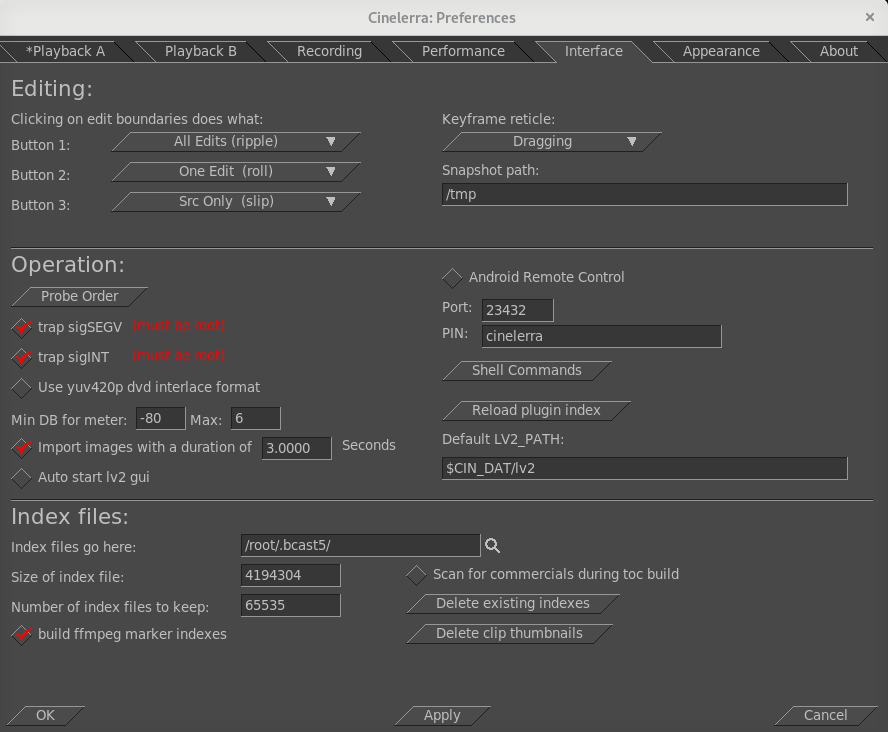
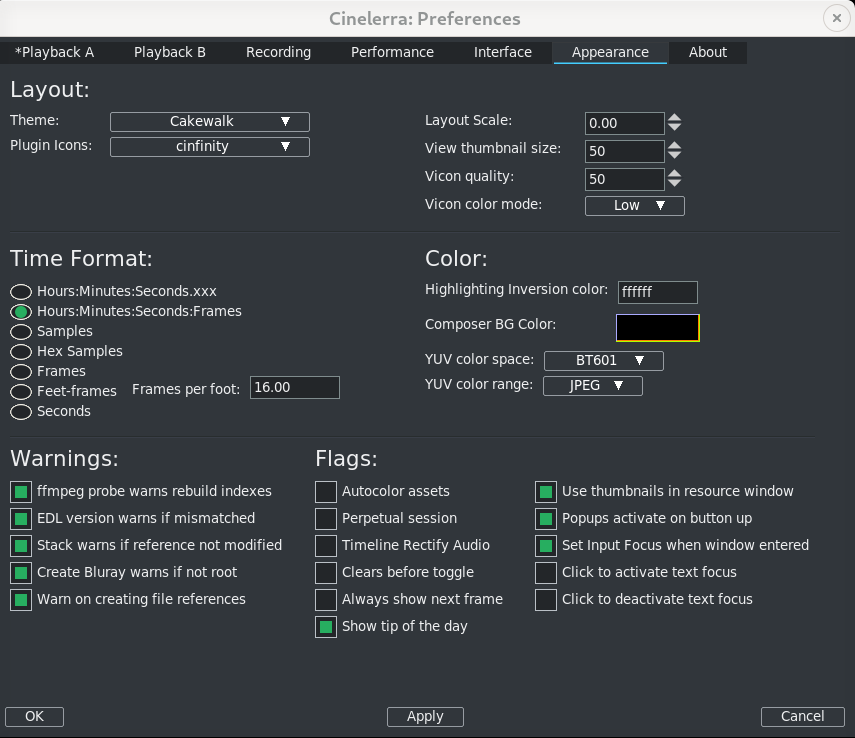
added scaling to Configuration/recreated settings.png/minor Tips tweak

diff --git a/parts/Configuration.tex b/parts/Configuration.tex
@@ -2,16 +2,16 @@
 \chapter{Configuration, Settings and Preferences}%
 \label{cha:configuration_settings_preferences}
 
-The user's default settings, preferences, and other helpful files are retained across sessions in a hidden file, called .bcast5, in the user’s \texttt{\$HOME} directory. Initially when cinelerra is launched there is an empty project and there are program default settings, and from then on the \texttt{.bcast5} directory will contain the settings that were set when quitting.  If you need to revert to the default settings, delete the \texttt{.bcast5} directory contents and restart Cinelerra.  Or you may want to rename it temporarily if you think you might want it back later.
-Although the location defaults to \texttt{\$HOME/.bcast5}, you can use the \texttt{CIN\_CONFIG} variable to override this location.  For example:  \texttt{export CIN\_CONFIG=/tmp/.bcast5}  will use a temporary setup for testing purposes.  It is also useful for multiple users sharing the same home directory who would like to have different configuration/preferences settings data.  And if you are experiencing inexplicable errors or crashes in cinelerra, they may be due to a problem with \texttt{.bcast5} in which case taking it out of the picture  can at least eliminate this as the cause.
-
-Several ways exist to change Cinelerra’s operational characteristics.  A lot of variations can be made to  settings and preferences by using the \textit{Settings} pulldown from the main window and choosing \textit{Preferences} (figure~\ref{fig:settings}).
-
 \begin{figure}[htpb]
     \centering \includegraphics[width=0.9\linewidth]{images/settings.png}
-    \caption{Settings$\rightarrow$Preferences window with Interface tab displayed}
+    \caption{Settings of default Preferences with the Appearance tab selected}
     \label{fig:settings}
 \end{figure}
+
+The user's default settings, preferences, and other helpful files are retained across sessions in a hidden file, called .bcast5, in the user’s \texttt{\$HOME} directory. Initially when Cinelerra is launched there is an empty project and there are program default settings, and from then on the \texttt{.bcast5} directory will contain the settings that were set when quitting.  If you need to revert to the default settings, delete the \texttt{.bcast5} directory contents and restart Cinelerra.  Or you may want to rename it temporarily if you think you might want it back later.
+Although the location defaults to \texttt{\$HOME/.bcast5}, you can use the \texttt{CIN\_CONFIG} variable to override this location.  For example:  \texttt{export CIN\_CONFIG=/tmp/.bcast5}  will use a temporary setup for testing purposes.  It is also useful for multiple users sharing the same home directory who would like to have different configuration/preferences settings data.  And if you are experiencing inexplicable errors or crashes in Cinelerra, they may be due to a problem with \texttt{.bcast5} in which case taking it out of the picture  can at least eliminate this as the cause.
+
+Several ways exist to change Cinelerra’s operational characteristics.  A lot of variations can be made to  settings and preferences by using the \textit{Settings} pulldown from the main window and choosing \textit{Preferences}.
 
 \section{Playback A / Playback B}%
 \label{sec:playback_a_b}
@@ -147,7 +147,7 @@ The main focus of the performance section is rendering parameters not available 
     \item[Cache size] to speed up rendering, several assets are kept open simultaneously. This determines how     many are kept open. A number too large may exhaust your memory rapidly. A number too small may result in slow playback as assets need to be reopened more frequently.
     \item[Seconds to preroll renders] some effects need a certain amount of time to settle in. Checking this option sets a number of seconds to render without writing to disk before the selected region is rendered. When using the render farm, you will sometimes need to preroll to get seamless transitions between the     jobs. Every job in a render farm is prerolled by this value. This does not affect background rendering because background rendering uses a different preroll value.
     \item[Force single processor use] Cinelerra tries to use all processors on the system by default, but sometimes you will only want to use one processor, like in a render farm client. This forces only one processor to be used.  The operating system usually uses the second processor for disk access. The value of this parameter is used in render farm clients.
-    \item[Project SMP cpus ] to restrict the number of processors utilized, change the count number.  This number will be used for the plugin per load balance operation cpu limit, which uses smp-cpus to stripe your data. It does not affect the number of cpus used in any other cinelerra operation besides plugins. On large cpu systems, it can come in handy to downgrade the number of cpus used for some plugins; otherwise it uses all of the processors and splits up the program into too many pieces which may add
+    \item[Project SMP cpus ] to restrict the number of processors utilized, change the count number.  This number will be used for the plugin per load balance operation cpu limit, which uses smp-cpus to stripe your data. It does not affect the number of cpus used in any other Cinelerra operation besides plugins. On large cpu systems, it can come in handy to downgrade the number of cpus used for some plugins; otherwise it uses all of the processors and splits up the program into too many pieces which may add
     considerable overhead in high cpu count systems.
 \end{description}
 
@@ -185,7 +185,7 @@ In the Render Farm Section are many options that are explained in detail in the 
 
 \begin{description}
     \item[Probe Order] clicking on this box brings up a popup allowing you to change the probe order usually for media that is raw camera output but it is also helpful if you want to ensure that a specific driver is used for certain media; for example you may want \texttt{tiff} files to be read natively instead of by ffmpeg.
-    \item[trap sigSEGV] always enable this so that if cinelerra crashes, a dump will be generated for analysis.
+    \item[trap sigSEGV] always enable this so that if Cinelerra crashes, a dump will be generated for analysis.
     \item[trap sigINT] always enable this so that you can use \texttt{Ctrl-c} to interrupt the program if it appears to be hanging.  This will often generate some useful information for analysis.
     \item[Use yuv420p dvd interlace format] for DVD media this option maintains the interlacing in Chroma sample addressing, which ordinarily would be deleted because the upsampling of interlaced chroma fields is normally done using a progressive algorithm.  With this mode enabled, the MPEG decoder uses a different algorithm for interlaced frames so that the $4:2:0$ format chroma interlacing is preserved.
     \item[Min / Max DB for meter] \textit{Min DB} is useful because some sound sources have a lower noise threshold than others. Everything below the noise threshold is meaningless. This option sets the meters to clip below a certain level.  \textit{Max DB} sets the maximum sound level represented by the sound meters. This value is presented merely to show how far over the limit a sound wave is. No matter what this value is, no sound card can play sound over 0 dB.
@@ -193,9 +193,10 @@ In the Render Farm Section are many options that are explained in detail in the 
     \item[Auto start lv2 gui] some lv2 plugins display a \textit{glitzy} UI (User Interface); for example the Calf plugins.  For these LV2 plugins, if you want that to automatically come up without having to click on the UI button on the simplified ui interface, this is the flag to enable that.
     \item[Android Remote Control] check this to enable using an android device as a remote control for broradcast TV.
     \item[Port] default port 23432 is used for the android remote control.
-    \item[Pin] default PIN cinelerra is used for the android remote control.
+    \item[Pin] default PIN Cinelerra is used for the android remote control.
     \item[Shell Commands] this button brings up the controls for setting up your own shell commands or editing previously set up commands.  See the section on Menu Bar Shell Commands for information.
     \item[Reload plugin index] execute this reload command when you have modified plugins and want to make sure your changes take effect.
+    \item[Nested Proxy Path] designates the default directory path for Nested Proxy files.
     \item[Default LV2\_Path] when there is no system \texttt{LV2\_PATH} set, if you want lv2 plugins loaded, you must set the correct directory path name here. When you change this field, cin will automatically restart and load the newly specified lv2 plugins.
 \end{description}
 
@@ -250,10 +251,32 @@ To change a \textit{Theme} in the main window pulldown, select:
 
 \texttt{Settings $\rightarrow$ Preferences};
 
-then in Preferences window, click on the \texttt{Appearance} tab. In the Editing section in the lower left hand corner,	click on the \texttt{down arrow} next to Theme to see your choices. Click on your desired choice from the list given. Check \texttt{OK}, cinelerra will automatically shutdown and restart.
+then in Preferences window, click on the \texttt{Appearance} tab. In the Editing section in the lower left hand corner,	click on the \texttt{down arrow} next to Theme to see your choices. Click on your desired choice from the list given. Check \texttt{OK}, Cinelerra will automatically shutdown and restart.
 
 \begin{description}
     \item[Plugin Icons] here are currently 4 choices for different plugin icons to include the old original.
+    \item[Layout Scale] allows for setting up scaling 
+for your 4K monitors or any monitor where you would like the text and icons to be just a little bigger or a lot bigger. This scale setting is automatically saved across sessions. 
+When first using Cinelerra, or if \textit{Layout Scale} has never been set, the initial value is 0.0.
+This means an automatic probe of the biggest monitor in use will be used for the setting. The advantage of this is that "new users" with a 4K monitor will not immediately be discouraged with too small text/icons.
+Leaving it at 0 instead of 1 is what most people will do and is probably preferable so that if you move to a different monitor with different dimensions/resolution, it will automatically probe. 
+If a user wants to prevent the automatic scaling, \textit{Layout Scale} should be set to 1.0 to avoid the smaller characters that might result due to the probe of a non-1080p monitor.
+
+For testing or when you are using a different sized monitor and want to ensure the expected
+size for larger text/fonts before you start the application from a window, you can keyin:
+\begin{lstlisting}[language=bash,numbers=none]
+        BC_SCALE=2.0 {your Cinelerra path}/bin/cin
+\end{lstlisting}
+The scaling size would only be in effect for that run of Cinelerra.  This is particularly
+useful in the case where the user makes a mistake in setting the \textit{Layout Scale} and Cinelerra becomes unusable. 
+Then the environment variable, BC\_SCALE, can be used to overcome the bad setting so that you can get back into
+Cinelerra and fix the scaling parameter.  For example, if you 
+accidentally set \textit{Layout Scale} to 112.6, keyin the following 
+and then when you get back into Cinelerra, fix \textit{Layout Scale} value in Preferences.  
+\begin{lstlisting}[language=bash,numbers=none]
+        BC_SCALE=1.0 {your Cinelerra path}/bin/cin
+\end{lstlisting}
+
     \item[View thumbnail size] you can increase or decrease the thumbnail size -- larger size uses more cpu.
     \item[Vicon quality]  increase the quality used for thumbnails to get more clarity of pixels -- this will use
     more memory.
@@ -289,7 +312,7 @@ Various representations of time are given so that you can select the most conven
 This section contains many useful options to cater to the various preferences of individual users.
 
 \begin{description}
-    \item[Show tip of the day] if checked, a tip will be displayed in a popup box when start up cinelerra.
+    \item[Show tip of the day] if checked, a tip will be displayed in a popup box when start up Cinelerra.
     \item[Autocolor assets] to make it visually easier to see your clips on the timeline that are from the same media file, you can have them automatically colored. Use of this feature requires additional memory and cpu on every timeline redraw, therefore smaller computers may not want this checked on.
     \item[ffmpeg probe warns rebuild indexes] this warning is very important for switching from using ffmpeg to using native formats, such as in the case of MPEG, so that you are reminded to \textit{rebuild indexes}.  If you do not rebuild the indexes, seeking on the timeline back and forth could very well be problematic, meaning it might not go to the right place.  Notification about rebuilding the indexes will appear by default as shown in the figure~\ref{fig:ff_probe} when you click on the FF icon in the main timeline in the upper right hand corner.  Once you click on \texttt{Don’t show this warning again} you will no longer be warned and this flag will no longer be enabled.
     \begin{figure}[htpb]
@@ -300,7 +323,7 @@ This section contains many useful options to cater to the various preferences of
     \item[EDL version warns if mismatched] in the case of a Batch Render, it is often helpful to be warned if the EDL has been changed so that you are aware that what is going to be rendered is different than your current EDL session.
     \item[Create Bluray warns if not root] if checked and you are not logged in as root, you will get an error message in order to avoid doing a lot of work and then failing out because root is required for automount and to write on DVD hardware.
     \item[Popups activate on button up] this is the default but if unchecked, popups activate on button down.
-    \item[Set Input Focus when window entered] this is checked on by default because on some operating system distros, when you move your mouse to a different window, nothing happens and you are left wondering why you can not enter information.  When checked this causes the input focus to shift to any cinelerra window when the cursor enters an exposed region of the window which eliminates the need to switch input focus by tabbing. 
+    \item[Set Input Focus when window entered] this is checked on by default because on some operating system distros, when you move your mouse to a different window, nothing happens and you are left wondering why you can not enter information.  When checked this causes the input focus to shift to any Cinelerra window when the cursor enters an exposed region of the window which eliminates the need to switch input focus by tabbing. 
     \item[Click to activate text focus] Click to activate text focus
     \item [Click to deactivate text focus] if checked, you will have to click to deactivate text focus.
     \item[Always show next frame] in this mode the insertion pointer reflects the same as the Compositor so that for playing forward, the result is what looks like 1 was added to the frame displayed in the Compositor window.  This is fully explained in another section (\hyperref[sub:playing_seeking]{17.2.1}).
@@ -357,6 +380,8 @@ export CIN_CONFIG=/tmp/.bcast5   #use a temporary setup for testing purposes.
     \item[{\small BC\_FONT\_PATH=<colon-separated-search-path-for-fonts>}]  to add additional font sets for the \textit{Title}
     plugin or to remove all fonts set to : \texttt{(colon)}.  An example: \texttt{export BC\_FONT\_PATH=/usr/share/fonts}.
     \item[{\small BC\_FONT\_DEBUG=1}] debug for determining which font is causing problems.  0 for no debug.
+    \item[{\small BC\_SCALE=1.2}] for setting up scaling for your monitor where you would like the text and icons to be bigger where 1.2 is a \# chosen accordingly; in this case the text and fonts will be 1.2 times the
+normal size of 1. Refer to the previous Appearance section, \textit{Layout Scale} for more details.
     \item[{\small LADSPA\_PATH}] specify an alternate set of ladspa plugins or include the default with the use of a colon separated list of directories to search for LADSPA plugins. This is always used first and if it does not
     exist, then the value for \texttt{CIN\_LADSPA} becomes \texttt{LADSPA\_PATH}.
     \item[{\small LV2\_PATH}] specify a certain set of LV2 plugins to use.  Separate multiple paths with colons.

diff --git a/parts/Tips.tex b/parts/Tips.tex
@@ -307,7 +307,8 @@ profile=high
 According to an online wiki, hardware encoders usually create output of lower quality than some software encoders like x264, but are much faster and use less CPU. Keep this in mind as you might want to set a higher bitrate to get output of similar visual quality.
 
 Results of a particular test case performed on a Intel, 4-core computer, with Broadwell Graphics using an mp4 input video/audio file with dimensions of
-$1440x1080 / 29.97fps$ is shown next (note, filename is \texttt{tutorial.mp4}).  This may very well be a \textit{best case} scenario!  But clearly, at least on this computer with only 4 cores, the hardware acceleration seems to be quite advantageous.  A comparison of the 2 output files using \texttt{ydiff} shows no obvious defects.
+$1440x1080 / 29.97fps$ is shown next (note, filename is \texttt{tutorial.mp4}).  This may very well be a \textit{best case} scenario!  But clearly, at least on this computer with only 4 cores, the hardware acceleration seems to be quite advantageous.  A comparison of the 2 output files 
+using \texttt{ydiff} as described in the Appendix (\ref{sec:Ydiff to check results}) shows no obvious defects.
 
 \begin{center}
 	\begin{tabular}{l|cccc}
